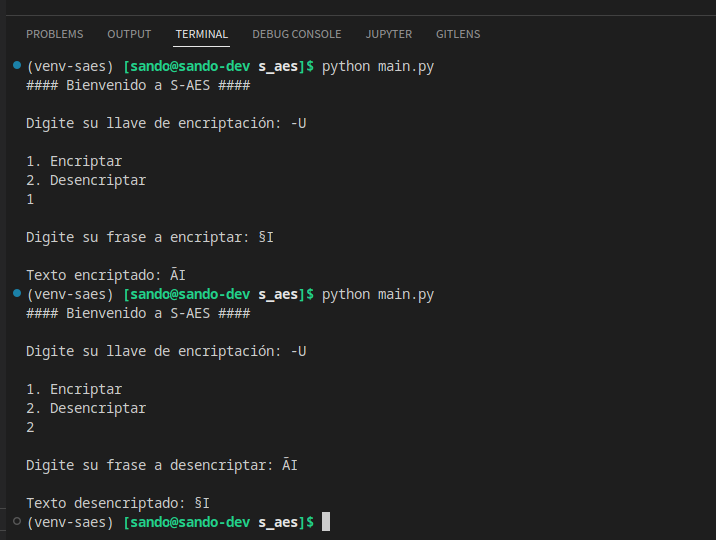
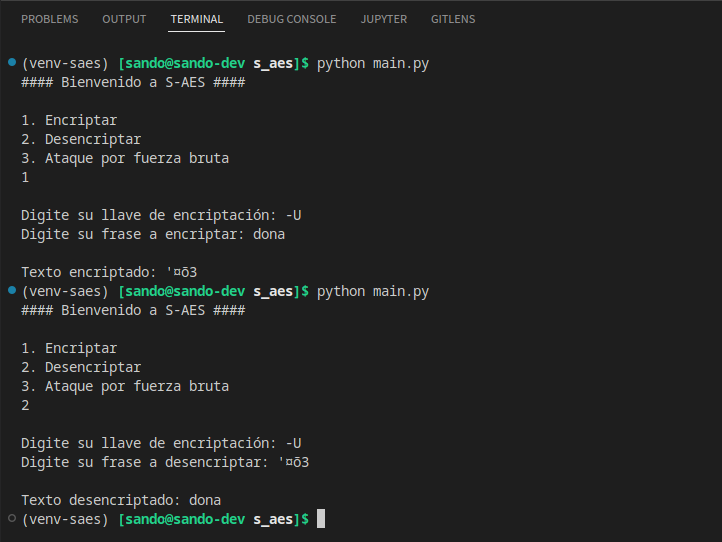
new docs

diff --git a/docs/javascripts/mathjax.js b/docs/javascripts/mathjax.js
@@ -1,0 +1,16 @@
+window.MathJax = {
+    tex: {
+        inlineMath: [["\\(", "\\)"]],
+        displayMath: [["\\[", "\\]"]],
+        processEscapes: true,
+        processEnvironments: true
+    },
+    options: {
+        ignoreHtmlClass: ".*|",
+        processHtmlClass: "arithmatex"
+    }
+};
+
+document$.subscribe(() => {
+    MathJax.typesetPromise()
+})

diff --git a/docs/index.md b/docs/index.md
@@ -1,9 +1,107 @@
 # S-AES
 
+## Autor
+
+**Camilo Andrés Sandoval Delgado**
+
+**cod: 20202678031**
+
+* Estudiante de la Universidad Distrital Francisco José de Caldas
+* Facutlad Tecnológica
+* Ingeniería Telemática
+* Proyecto final para la materia de **Criptología**
+
 ## Resumen
 
-Este es el resumen
+A continuación se observará el desarrollo e implementación del algoritmo S-AES para encriptar y desencriptar texto. Además se realizará un ataque de fuerza bruta y se observarán los resultados.
 
 ## Introducción
 
-Introducción: En la que hacen una breve presentación del algoritmo S-AES y luego presentan cómo hicieron el montaje
+**Algoritmo S-AES:** (Simplified AES)
+
+Se trata de un algoritmo cifrador de texto por bloques.
+
+El algoritmo de cifrado toma un bloque de texto sin formato de 16 bits como entrada y una clave de 16 bits y produce un bloque de texto cifrado de 16 bits como salida.
+
+```
+clave_16_bits = -U
+texto_a_encriptar = do
+
+valor_encriptado = encriptar(texto_a_encriptar,clave_16_bits)
+valor_encriptado = '¤
+```
+
+El algoritmo de descifrado S-AES toma un bloque de texto cifrado de 16 bits y la misma clave de 16 bits utilizada para producir ese texto cifrado como entrada y produce el bloque original de texto sin formato de 16 bits como salida.
+
+```
+clave_16_bits = -U
+texto_a_desencriptar = '¤
+
+valor_desencriptado = desencriptar(texto_a_desencriptar,clave_16_bits)
+valor_desencriptado = do
+```
+
+---
+
+### Funcionamiento general
+
+El algoritmo de cifrado implica el uso de cuatro funciones o transformaciones diferentes:
+
+* añadir clave (Ak),
+* sustitución de nibble (NS),
+* desplazamiento de fila (SR)
+* mezcla de columna (MC)
+
+
+Podemos expresar de forma concisa el algoritmo de cifrado como una composición de funciones: 
+
+\begin{align}
+A_{k_2}°SR°NS°A_{k_1}°MC°SR°NS°A_{k_0}
+\end{align}
+
+de modo que $A_{k_0}$ se aplica primero.
+
+Para realizar la encripción de los datos se realizan 3 rondas, la ronda 0 está compuesta por AK, la ronda 1 está compuesta por NS, SR, MC, AK, la ronda 2 está compuesta por NS, SR, AK. Cada una de las rondas usa una llave diferente generadas de la llave original, el flujo completo se muestra a continuación.
+
+![Flujo SAES](images/eaes_general.png)
+
+### Ronda completa
+
+Una ronda completa de encripción, que contiene los 4 métodos, se ve gráficamente de la siguiente manera:
+
+![Ronda SAES](images/ronda_saes.png)
+
+### Expansión de llaves
+
+
+Finalmente la expansión de llaves se obtienen con las siguientes ecuaciones:
+
+$$
+w_0 = First8Bits(key)
+$$
+
+$$
+w_1 = Seconds8Bits(key)
+$$
+
+$$
+w_2 = w_0 \oplus g(w_1) = w_0 \oplus RCON(1) \oplus SubNib(RotNib(w_1))
+$$
+
+$$
+w_3 = w_2 \oplus w_1
+$$
+
+$$
+w_4 = w_2 \oplus g(w_3) = w_2 \oplus RCON(2) \oplus SubNib(RotNib(w_3))
+$$
+
+$$
+w_5 = w_4 \oplus w_3
+$$
+
+Se evidencia todo el flujo en la siguiente imagen:
+
+![Key Expan](images/key_expan.png)
+
+Para conocer más a detalle el funcionmiento del algoritmo, por favor diríjase a las [referencias](references.md)

diff --git a/docs/metodology.md b/docs/metodology.md
@@ -1,5 +1,37 @@
-## Metodología
+# Metodología
 
-Metodología: En donde describen cómo desarrollaron las pruebas de encriptación y ataque (sólo el cómo aún no los resultados)
+## Desarrollo del algoritmo
+
+Para el desarrollo del algoritmo de S-AES se usó el lenguaje de programación [python](https://www.python.org/) y algunas librerías extra. Puede encontrar el código fuente del proyecto y probarlo en este enlace de [github](https://github.com/SandoDev/s_aes).
+
+Toda la lógica para la construcción de cada uno de los métodos y la integración de estos se basan en las [referencias](references.md) dispuestas.
+
+El código proporciona los métodos para encriptar y desencriptar texto, además ofrece una interfaz de consola para la ejecución del mismo.
+
+## Implementación del algoritmo
+
+Para implementar el algoritmo puede ejecutar directamente el proyecto por su interfaz de consola:
 
 ![Ejecución](images/total_execution.png)
+
+También puede utilizarlo como librería y ejecutar directamente los métodos para encriptar y desencriptar:
+
+![Librería](images/librari_methods.png)
+
+Se sugiere revisar el paquete de `s_aes/test` ya que ahí se muestra el correcto consumo de los métodos.
+
+## Generación de ataques
+
+Para la generación de ataque también exsiten los métodos y la opción desde la interfaz de consola.
+
+En este caso se trabaja desde un [jupyter-notebook](https://jupyter.org/) para la generación de ataque por fuerza bruta.
+
+### Pasos
+
+1. Se parte del hecho que hemos capturado un texto cifrado y el objetivo será encontrar la clave para descifrar el texto.
+2. Para ello se usarán multiples claves, la cuales surgen de permutar los caracteres imprimibles de ascii en pares de a 2 valores.
+3. Cada llave generará un resultado de desencripción diferente para el mismo texto.
+4. A partir de esto se emplearán diferenetes métodos de analisis para limpiar los resultados y llegar así a encontrar la llave.
+      1. Métodos de coincidencia y análisis de caracteres: se genera una lista de valores descifrados que contengan solo caracteres imprimibles de ascii, ya que no se espera que el texto inicial hubiera contenido estos valores.
+      2. Filtros mediante [regex](https://es.wikipedia.org/wiki/Expresi%C3%B3n_regular): Cada texto descifrado del paso anterior es pasado por expresiones regulares con el fin de filtrar solo los textos que contengan valores numericos o letras del alfabeto, ya que son estos datos los que generalmente se cifran.
+      3. Análisis manual: se analiza manualmente cada resultado del paso anterior observando si el texto descifrado representa algo significativo y si se podría afirmar que se encontró la clave

diff --git a/docs/results.md b/docs/results.md
@@ -1,6 +1,43 @@
-## Resultados
+# Resultados
 
-Resultados: En donde presentan los resultados de las encriptaciones y de los ataques
+
+## Resultados obtenidos
+
+### Encriptando y Desencriptando
+
+Para poner a prueba el encriptador y desencriptador:
+
+    Se cifra inicialmente la palabra: dona
+
+    Con la llave: -U
+
+    Esta genera el texto cifrado: '¤õ3
+
+luego ese valor se pasa al desencriptador con la misma llave
+el resultado es que el valor desencriptado es el mismo que el inicial
+
+    Se descifra la palabra: '¤õ3
+
+    Con la llave: -U
+
+    Esta genera el texto descifrado: dona
+
+```python
+from s_aes.logic.encrypt import encrypt_saes
+from s_aes.logic.decrypt import decrypt_saes
+from s_aes.logic.key_logic import generate_keys
+
+keys = generate_keys("-U")
+out = encrypt_saes("dona",keys)
+out2 = decrypt_saes("'¤õ3",keys)
+print(out2) # dona
+```
+
+![Librería](images/librari_methods.png)
+
+### Ataque por fuerza bruta
+
+
 
 ## Análisis de resultados
 
